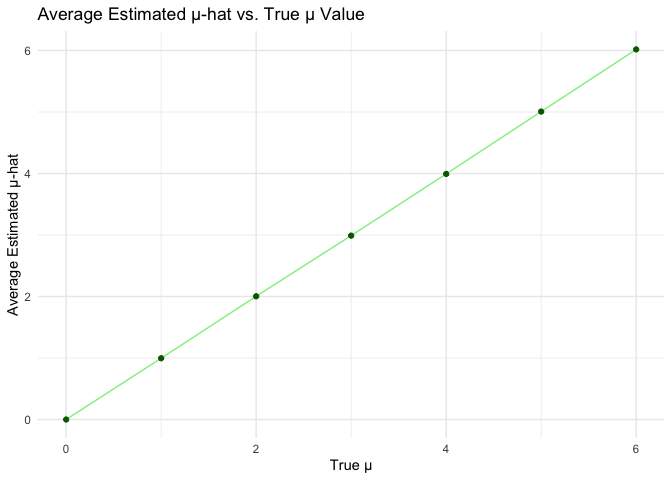
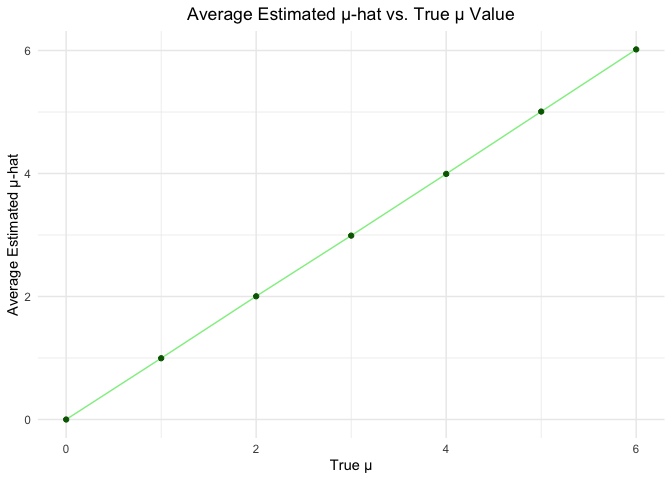
More polishing

Changed region(s): [[0.0625, 0.0, 0.75, 0.0625]]

diff --git a/p8105_hw5_daq2107.md b/p8105_hw5_daq2107.md
@@ -453,7 +453,8 @@ tidy_long_df %>%
   geom_path() + 
   facet_grid (. ~ group) + 
   theme_minimal() +
-  theme(legend.position = "none") + # Removing the subject legends
+  theme(legend.position = "none", # Removing the subject legends
+        plot.title = element_text(hjust = 0.5)) + # Centering the title
   labs(
     title = "Subject Outcome Across Time by Study Branch",
     x = "Week Number",
@@ -472,15 +473,15 @@ tidy_long_df %>%
 
 **Describing the Plot:** As we can see from the trend above, the study
 subjects in the control arm have highly variable outcomes across the
-eight weeks of the study duration, with a minimum value of and a maximum
-value of -. Despite this high variability, there is no clear increasing
-or decreasing trend in the study outcome during the duration of the
-study.
+eight weeks of the study duration, with a minimum value of -2.17 and a
+maximum value of 4.26. Despite this high variability, there is no clear
+increasing or decreasing trend in the study outcome during the duration
+of the study.
 
 On the other hand, the participants in the experimental arm of the study
 display an increasing trend in the study outcome across the eight weeks
-of the study. The maximum outcome value in this arm at Week 8 was -,
-which is NaN units difference from the higher value on the control arm
+of the study. The maximum outcome value in this arm at Week 8 was 6.95,
+which is 4.6 units difference from the higher value on the control arm
 at Week 8.
 
 Overall, based on this data, I would say that there is a clear
@@ -629,6 +630,7 @@ sim_p3_reject %>%
   geom_line(color = "orange") + 
   geom_point(color = "darkorange") +
   theme_minimal() +
+  theme(plot.title = element_text(hjust = 0.5)) + # Centering the title
   labs(
     title = "Proportion of Null Hypothesis Rejection (Power) by True μ Value",
     x = "True μ",
@@ -669,6 +671,7 @@ p3_plot_2 =
   geom_line(color = "lightgreen") + 
   geom_point(color = "darkgreen") +
   theme_minimal() +
+  theme(plot.title = element_text(hjust = 0.5)) + # Centering the title
   labs(
     title = "Average Estimated μ-hat vs. True μ Value",
     x = "True μ",
@@ -700,6 +703,7 @@ p3_plot_3 =
   geom_line(color = "lightblue") + 
   geom_point(color = "darkblue") +
   theme_minimal() +
+  theme(plot.title = element_text(hjust = 0.5)) + # Centering the title
   labs(
     title = "Average Estimated μ-hat vs. True μ Value*",
     subtitle = "*Only Samples Where Null Hypothesis Was Rejected",
@@ -712,7 +716,7 @@ p3_plot_3 =
 p3_plot_3
 ```
 
-![](p8105_hw5_daq2107_files/figure-gfm/muhat_vs_mu_rejet-1.png)<!-- -->
+![](p8105_hw5_daq2107_files/figure-gfm/muhat_vs_mu_reject-1.png)<!-- -->
 
 To better visualize the contrast between these two plots, let’s create
 an overlayed plot. We can make use of most of the code already written
@@ -757,6 +761,7 @@ p3_plot_4 =
   geom_line() + 
   geom_point() +
   theme_minimal() +
+  theme(plot.title = element_text(hjust = 0.5)) + # Centering the title
   labs(
     title = "Average Estimated μ-hat vs. True μ Value*",
     x = "True μ",
@@ -773,30 +778,32 @@ p3_plot_4
 
 **Plots Description & Question Answer:** The sample average of μ-hat
 across tests for which the null is rejected is only approximately equal
-to the true value of μ when the true μ is large (μ = {4, 5, 6}).
+to the true value of μ when the true μ is relatively large (μ = {4, 5,
+6}).
 
 As we can see from the three plots above, when considering all the
-samples, the values for the estimated μ-hat almost perfectly aligns with
+samples, the values for the estimated μ-hat almost perfectly align with
 the values of the true μ. This result was interesting to me, but I
-believe it makes sense since, when taking all possible samples from the
-iteration, as sample size increases the more that the estimate μ
-approximates the true μ. This is because, when we consider all 5,000
-simulated samples, just like we saw in our *Simulation* lecture, the
-sample mean estimates are expected to be more centered around the true
-population mean.
+believe it makes sense since, when we average all 5,000 simulated
+samples, for each value of μ —— and just like we saw in our *Simulation*
+lecture —— the sample mean estimates are expected to be more centered
+around the true population mean.
 
 Moreover, we can see that when we only take the samples for which we
 reject the null hypothesis, the average estimated μ-hat deviates from
 the true μ values, in particular when μ = {1, 2 3}. This also makes
 sense, and it is actually in agreement with what we observed in our
-Power vs. μ graph: when we have very small power, only very extreme
-observations will be able to yield a p-value that is below the 0.05
-significance threshold. However, as we increase in our true μ values,
-power increases (the probability of rejecting the null hypotheis) also
-increases, and thus more values of our parameter estimates will be
-accurately rejected, approximating the true μ. We can see that in both
-the power vs. true effect and in the average estimated μ vs. true μ
-graphs, it is at true μ = 4 when we lose distinction between our
-parameter estimate and our true value.
+Power vs. μ graph: when we have low power, only samples with extreme
+estimated μ-hat values will be able to yield a p-value that is below the
+0.05 significance threshold. However, as we increase in our true μ
+values, power (the proportion of null hypothesis rejects) also
+increases, and thus a greater proportion of the simulated samples will
+reject the null hypothesis, making very little distinction between the
+all samples set.
+
+Per the explanation above, we can see that in both the power vs. true
+effect and in the average estimated μ vs. true μ graphs, it is around
+true μ = 4 when we lose distinction between the rejected-only averages
+and the all-sample averages.
 
 ## The End :) Have a wonderful day!
